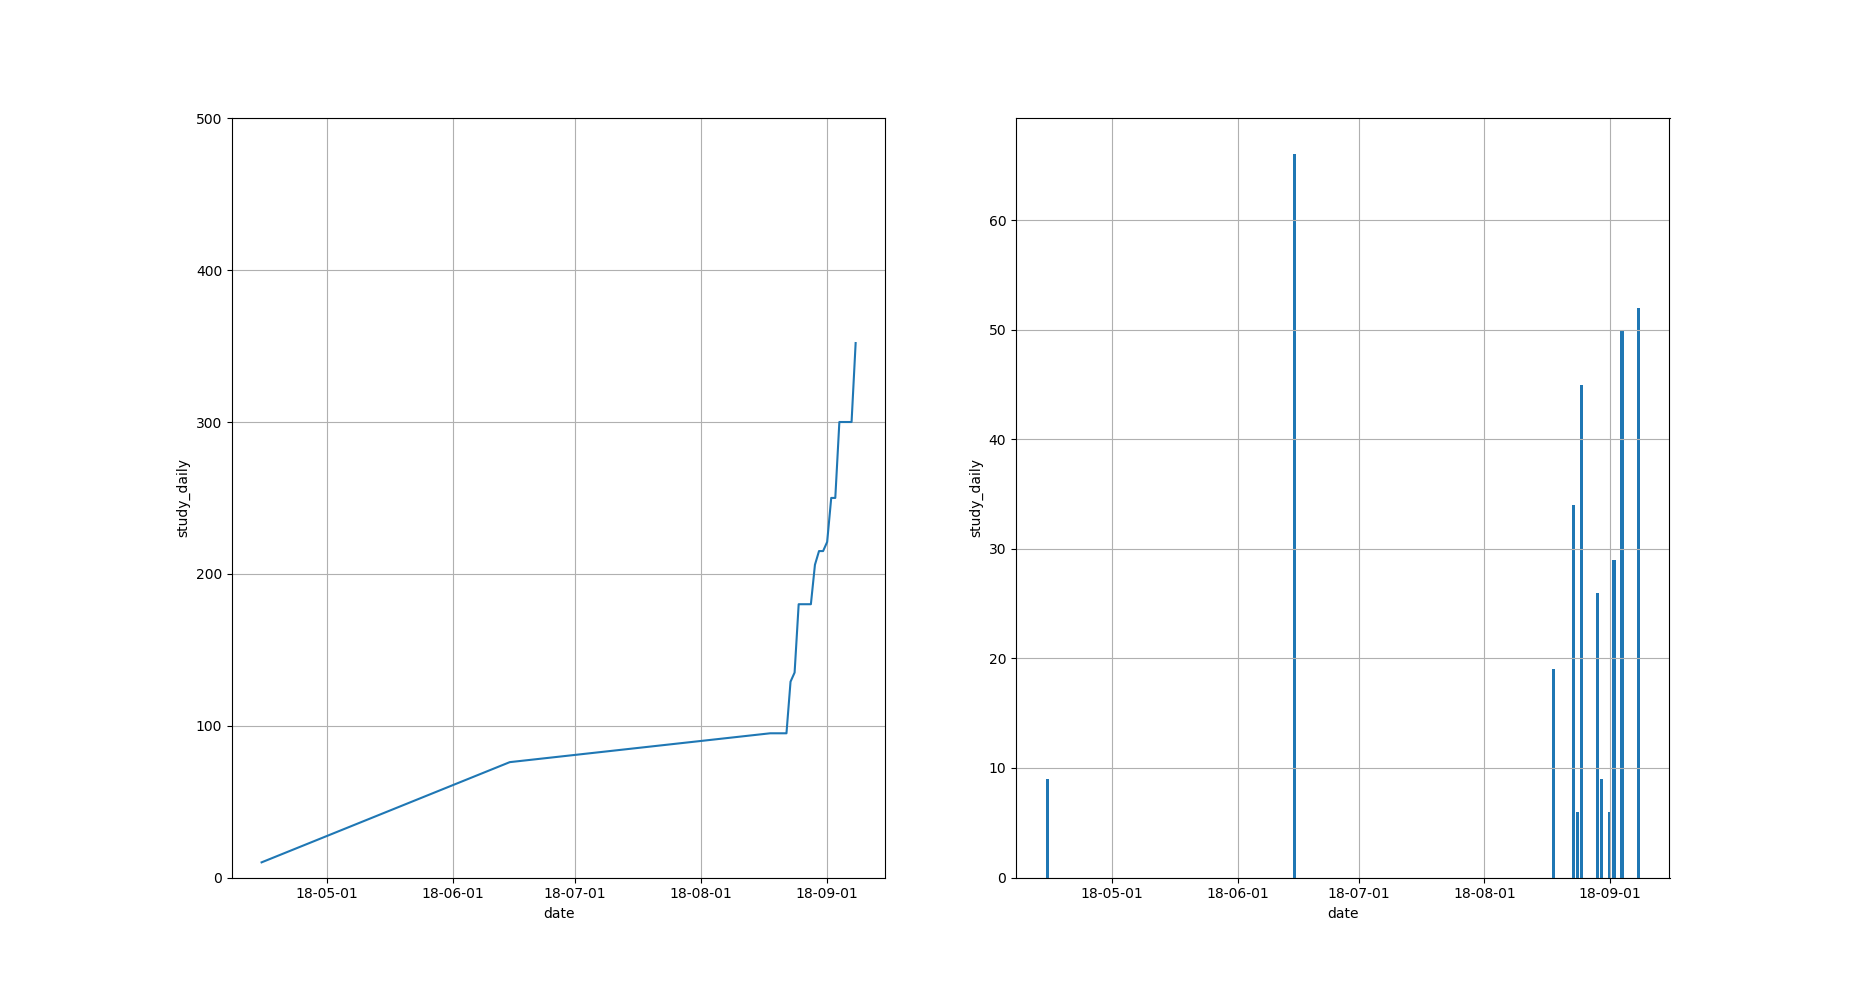
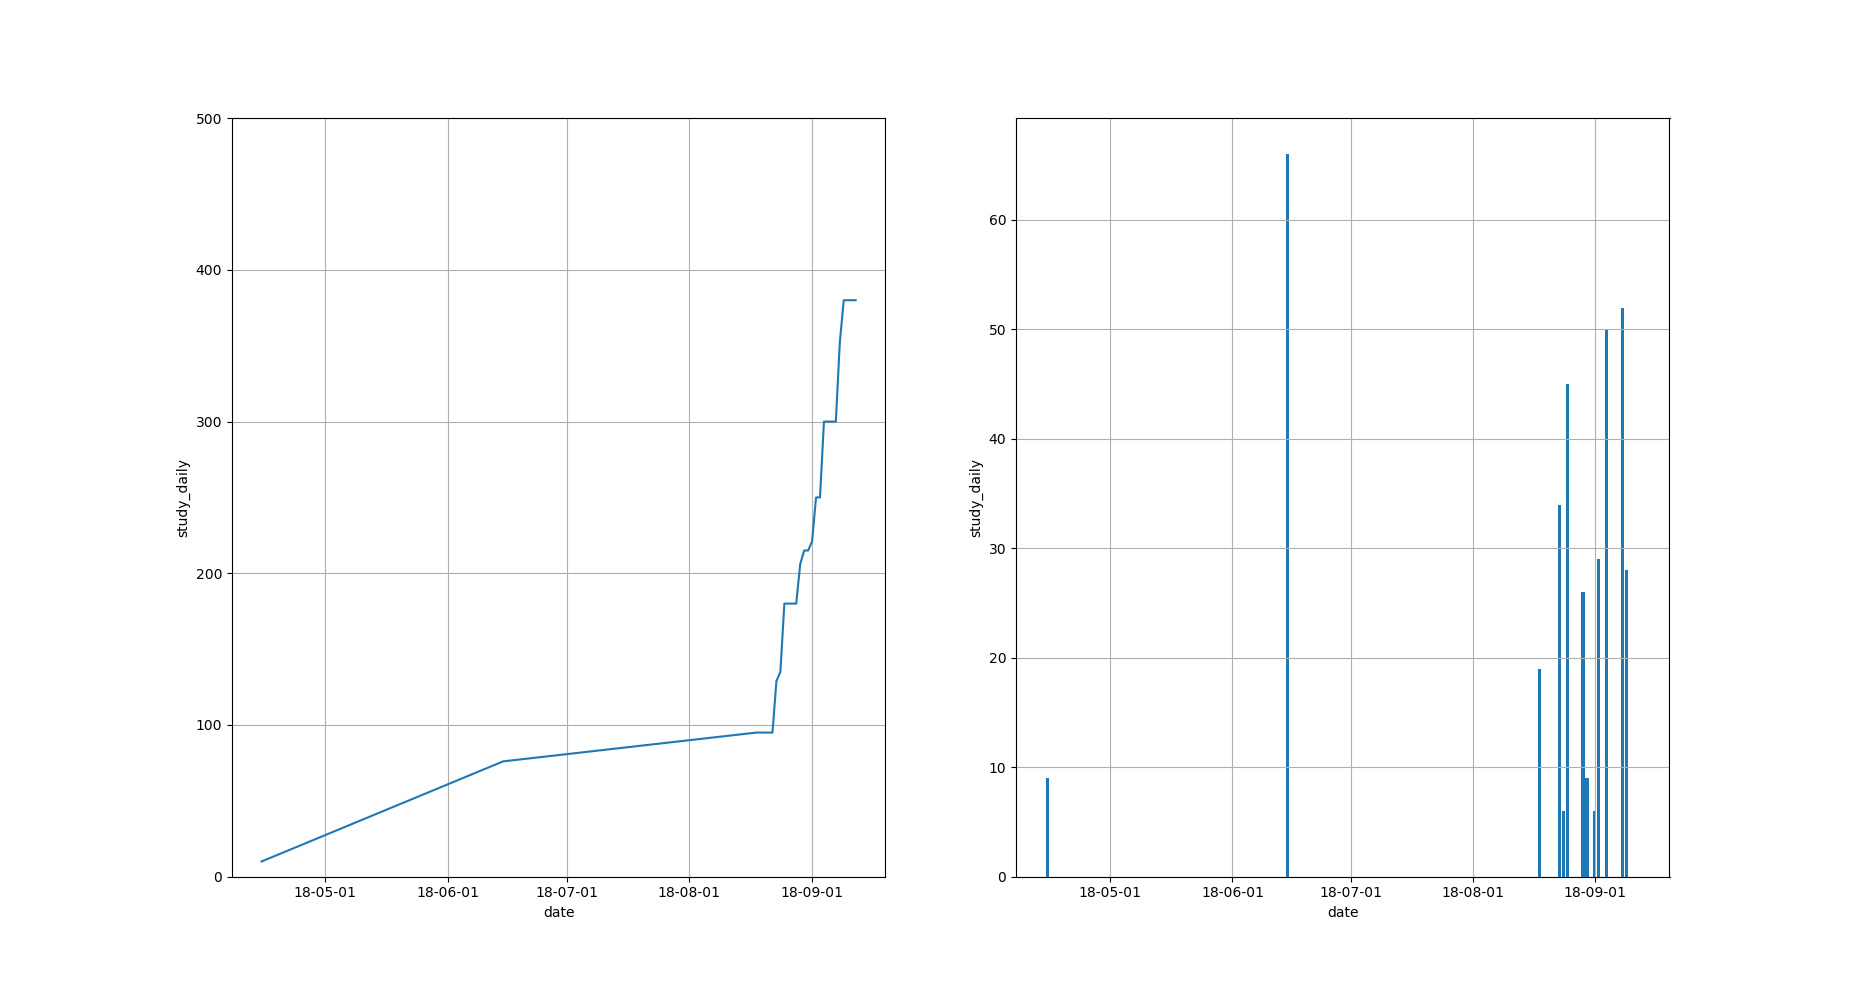
更新9月10，11,12号学习动态，虽然都是0

diff --git a/README.md b/README.md
@@ -26,6 +26,9 @@
     2018/9/7,深度学习-0,深度学习-0
     2018/9/8,深度学习-0,深度学习-52
     2018/9/9,深度学习-52,深度学习-80
+    2018/9/10,深度学习-80,深度学习-80
+    2018/9/11,深度学习-80,深度学习-80
+    2018/9/12,深度学习-80,深度学习-80
     >>>>>>>>>>>END<<<<<<<<<<<<](https://github.com/NemoHoHaloAi/machine-learning-plus/blob/master/study_daily.png)
 
 ## final learn plan
@@ -65,13 +68,13 @@
       1. 9.08:start 深度学习 0%,end 深度学习 52%;
       1. 9.09:start 深度学习 52%,end 深度学习 80%;
   5. 9.10~9.16:完成P6-final_project；
-      1. 8.19:start,end;
-      1. 8.19:start,end;
-      1. 8.19:start,end;
-      1. 8.19:start,end;
-      1. 8.19:start,end;
-      1. 8.19:start,end;
-      1. 8.19:start,end;
+      1. 9.10:start 深度学习 80%,end 深度学习 80%;
+      1. 9.11:start 深度学习 80%,end 深度学习 80%;
+      1. 9.12:start 深度学习 80%,end 深度学习 80%;
+      1. 9.13:start,end;
+      1. 9.14:start,end;
+      1. 9.15:start,end;
+      1. 9.16:start,end;
   6. 其余时间看情况分配；
 
 ## target
